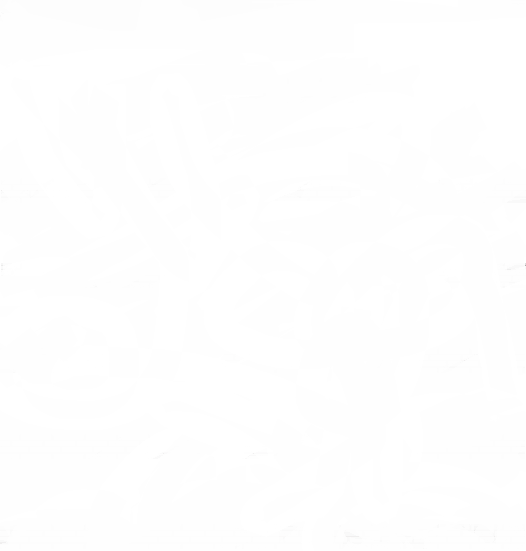
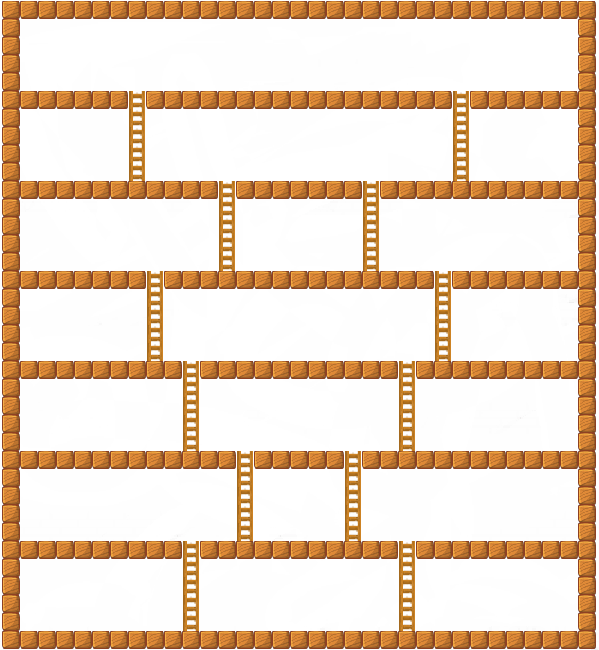
Kretanje igraca

diff --git a/DonkeyKong/Main.py b/DonkeyKong/Main.py
@@ -61,38 +61,74 @@ class Princess(QLabel):
 
 
 class Mover(QLabel):
-    def __init__(self, parent=None):
+    def __init__(self, map, parent=None):
         super().__init__(parent)
-        self.setGeometry(0, 608, 70, 70)
+        self.setGeometry(-8, 621, 50, 70)
         pix = QPixmap('ItsAMeRight.png')
-        pixx = pix.scaled(QSize(70, 70))
+        pixx = pix.scaled(QSize(50, 70))
         self.setPixmap(pixx)
+        self.map = map
+        self.PlayerX = 0
+        self.PlayerY = 0
 
     def getPosition(self):
-        self.playerX = self.mover.x()
-        self.playerY = self.mover.y()
+        self.playerDrawn = 0
+        for x in range(len(self.map)):
+            for y in range(len(self.map[x])):
+                if self.map[x][y] == 3 or self.map[x][y] == 5:
+                    if self.playerDrawn == 0:
+                        self.playerDrawn = 1
+                    else:
+                        self.PlayerX = x
+                        self.PlayerY = y
+                        return
+
+    def printMap(self):
+        for x in range(len(self.map)):
+            row = []
+            for y in range(len(self.map[x])):
+                row.append(self.map[x][y])
+            print(row)
 
     def keyPressEvent(self, event):
         self.getPosition()
         if event.key() == Qt.Key_Up:
-            if MainWindow.map[self.x()][self.y()] == 5: #Provera da li se nalazi na merdevinama
-                self.move(self.x(), self.y() - 15)
+            if self.map[self.PlayerX][self.PlayerY] == 5:
+                self.move(self.x(), self.y() - 19)
+                self.map[self.PlayerX][self.PlayerY] = self.map[self.PlayerX][self.PlayerY] - 3
+                self.map[self.PlayerX - 2][self.PlayerY] = self.map[self.PlayerX - 2][self.PlayerY] + 3
+                self.printMap()
         elif event.key() == Qt.Key_Down:
-            if self.y() + 15 <= 610:
-                if MainWindow.map[self.x()][self.y()] == 5: #Provera da li se nalazi na merdevinama
-                    self.move(self.x(), self.y() + 15)
+            if self.y() + 19 <= 630:
+                if self.map[self.PlayerX+1][self.PlayerY] == 5 or self.map[self.PlayerX + 1][self.PlayerY] == 2:
+                    self.move(self.x(), self.y() + 19)
+                    self.map[self.PlayerX + 1][self.PlayerY] = self.map[self.PlayerX + 1][self.PlayerY] + 3
+                    self.map[self.PlayerX - 1][self.PlayerY] = self.map[self.PlayerX - 1][self.PlayerY] - 3
+                    self.printMap()
         elif event.key() == Qt.Key_Left:
-            if self.x() - 5 >= -25:
-                self.move(self.x() - 5, self.y())
-                pix = QPixmap('ItsAMeLeft.png')
-                pixx = pix.scaled(QSize(70, 70))
-                self.setPixmap(pixx)
+            if self.x() - 18 >= -8:
+                if not (self.map[self.PlayerX+1][self.PlayerY] == 2 and self.map[self.PlayerX + 1][self.PlayerY+1] == 0):
+                    self.move(self.x() - 18, self.y())
+                    pix = QPixmap('ItsAMeLeft.png')
+                    pixx = pix.scaled(QSize(50, 70))
+                    self.setPixmap(pixx)
+                    self.map[self.PlayerX][self.PlayerY] = self.map[self.PlayerX][self.PlayerY] - 3
+                    self.map[self.PlayerX-1][self.PlayerY] = self.map[self.PlayerX-1][self.PlayerY] - 3
+                    self.map[self.PlayerX][self.PlayerY-1] = self.map[self.PlayerX][self.PlayerY-1] + 3
+                    self.map[self.PlayerX-1][self.PlayerY-1] = self.map[self.PlayerX-1][self.PlayerY-1] + 3
+                    self.printMap()
         elif event.key() == Qt.Key_Right:
-            if self.x() + 5 <= 532:
-                self.move(self.x() + 5, self.y())
-                pix = QPixmap('ItsAMeRight.png')
-                pixx = pix.scaled(QSize(70, 70))
-                self.setPixmap(pixx)
+            if self.x() + 18 <= 532:
+                if not (self.map[self.PlayerX + 1][self.PlayerY] == 2 and self.map[self.PlayerX + 1][self.PlayerY + 1] == 0):
+                    self.move(self.x() + 18, self.y())
+                    pix = QPixmap('ItsAMeRight.png')
+                    pixx = pix.scaled(QSize(50, 70))
+                    self.setPixmap(pixx)
+                    self.map[self.PlayerX][self.PlayerY] = self.map[self.PlayerX][self.PlayerY] - 3
+                    self.map[self.PlayerX-1][self.PlayerY] = self.map[self.PlayerX-1][self.PlayerY] - 3
+                    self.map[self.PlayerX][self.PlayerY+1] = self.map[self.PlayerX][self.PlayerY+1] + 3
+                    self.map[self.PlayerX-1][self.PlayerY+1] = self.map[self.PlayerX-1][self.PlayerY+1] + 3
+                    self.printMap()
         else:
             QLabel.keyPressEvent(self, event)
 
@@ -102,79 +138,55 @@ class MainWindow(QWidget):
         super().__init__()
         self.initUI()
 
-    def makeMap(self):
-        for i in range(0, self._height // 15 + 1):
-            row = []
-            for j in range(0, self._width // 15):
-                row.append(0)
-            self.map.append(row)
-
-    def makeWalls(self): # Wall = 1
-        for i in range(0, (self._height // 15) - 4):
-            self.map[i][0] = self.map[i][self._width // 15 - 1] = 1
-        for i in range(0, (self._height // (15 * 5))):
-            for j in range(0, self._width // 15):
-                self.map[i * 5][j] = 1
-
-    def makeLadders(self): # Ladder = 2
-        for i in range(1, (self._height // (15 * 5) - 1)):
-            ladderPos = math.floor(random.random() * (self._width / 30))
-            ladderPos = int(10 + ladderPos)
-            for k in range(0, 5):
-                self.map[i * 5 + k][ladderPos] = self.map[i * 5 + k][32 - ladderPos] = 2
-
-    def makePlayer(self): # Player = 3
-        self.map[34][1] = self.map[33][1] = 3
-
-    def drawImages(self):
-        self.playerDrawn = 0
-        for x in range(len(self.map)):
-            for y in range(len(self.map[x])):
-                if self.map[x][y] == 1:
-                    wallLabel = QLabel()
-                    pix = QPixmap('wood_block.png')
-                    pixx = pix.scaled(QSize(self.image_size, self.image_size))
-                    wallLabel.setPixmap(pixx)
-                    wallLabel.move(y * 15 + 15 / 2, x * 15 + 15 / 2)
-                    self.hbox.addWidget(wallLabel, x * 15 + 15 / 2, y * 15 + 15 / 2)
-
-                if self.map[x][y] == 2:
-                    ladderLabel = QLabel()
-                    pix = QPixmap('ladder.png')
-                    pixx = pix.scaled(QSize(self.image_size, self.image_size))
-                    ladderLabel.setPixmap(pixx)
-                    ladderLabel.move(y * 15 + 15 / 2, x * 15 + 15 / 2)
-                    self.hbox.addWidget(ladderLabel, x * 15 + 15 / 2, y * 15 + 15 / 2)
-
-                if self.map[x][y] == 3:
-                    if self.playerDrawn == 0:
-                        self.playerDrawn = 1
-                    else:
-                        playerLabel = QLabel()
-                        pix = QPixmap('ItsAMeRight.png')
-                        pixx = pix.scaled(QSize(self.image_size, self.image_size))
-                        playerLabel.setPixmap(pixx)
-                        playerLabel.move(y * 15 + 15 / 2, x * 15 + 15 / 2)
-                        self.hbox.addWidget(playerLabel, x * 15 + 15 / 2, y * 15 + 15 / 2)
-
-    # def clearScreen(self):
-    # Clear previous screen
-
-    def initializeBoard(self):
-        # self.clearScreen()
-        self.makeMap()
-        self.makeWalls()
-        self.makeLadders()
-        self.makePlayer()
-        self.drawImages()
-
     def initUI(self):
         self.startButton = QPushButton("New Game", self)
         self.startButton.resize(100, 32)
         self.startButton.move(100, 500)
         self.startButton.clicked.connect(self.on_start)
 
-        self.map = []
+        self.map = \
+            [[1, 1, 1, 1, 1, 1, 1, 1, 1, 1, 1, 1, 1, 1, 1, 1, 1, 1, 1, 1, 1, 1, 1, 1, 1, 1, 1, 1, 1, 1, 1, 1, 1],
+             [1, 0, 0, 0, 0, 0, 0, 0, 0, 0, 0, 0, 0, 0, 0, 0, 0, 0, 0, 0, 0, 0, 0, 0, 0, 0, 0, 0, 0, 0, 0, 0, 1],
+             [1, 0, 0, 0, 0, 0, 0, 0, 0, 0, 0, 0, 0, 0, 0, 4, 4, 4, 0, 0, 0, 0, 0, 0, 0, 0, 0, 0, 0, 0, 0, 0, 1],
+             [1, 0, 0, 0, 0, 0, 0, 0, 0, 0, 0, 0, 0, 0, 0, 4, 4, 4, 0, 0, 0, 0, 0, 0, 0, 0, 0, 0, 0, 0, 0, 0, 1],
+             [1, 0, 0, 0, 0, 0, 0, 0, 0, 0, 0, 0, 0, 0, 0, 4, 4, 4, 0, 0, 0, 0, 0, 0, 0, 0, 0, 0, 0, 0, 0, 0, 1],
+             [1, 1, 1, 1, 1, 1, 1, 2, 1, 1, 1, 1, 1, 1, 1, 1, 1, 1, 1, 1, 1, 1, 1, 1, 1, 2, 1, 1, 1, 1, 1, 1, 1],
+             [1, 0, 0, 0, 0, 0, 0, 2, 0, 0, 0, 0, 0, 0, 0, 0, 0, 0, 0, 0, 0, 0, 0, 0, 0, 2, 0, 0, 0, 0, 0, 0, 1],
+             [1, 0, 0, 0, 0, 0, 0, 2, 0, 0, 0, 0, 0, 0, 0, 0, 0, 0, 0, 0, 0, 0, 0, 0, 0, 2, 0, 0, 0, 0, 0, 0, 1],
+             [1, 0, 0, 0, 0, 0, 0, 2, 0, 0, 0, 0, 0, 0, 0, 0, 0, 0, 0, 0, 0, 0, 0, 0, 0, 2, 0, 0, 0, 0, 0, 0, 1],
+             [1, 0, 0, 0, 0, 0, 0, 2, 0, 0, 0, 0, 0, 0, 0, 0, 0, 0, 0, 0, 0, 0, 0, 0, 0, 2, 0, 0, 0, 0, 0, 0, 1],
+             [1, 1, 1, 1, 1, 1, 1, 1, 1, 1, 1, 1, 2, 1, 1, 1, 1, 1, 1, 1, 2, 1, 1, 1, 1, 1, 1, 1, 1, 1, 1, 1, 1],
+             [1, 0, 0, 0, 0, 0, 0, 0, 0, 0, 0, 0, 2, 0, 0, 0, 0, 0, 0, 0, 2, 0, 0, 0, 0, 0, 0, 0, 0, 0, 0, 0, 1],
+             [1, 0, 0, 0, 0, 0, 0, 0, 0, 0, 0, 0, 2, 0, 0, 0, 0, 0, 0, 0, 2, 0, 0, 0, 0, 0, 0, 0, 0, 0, 0, 0, 1],
+             [1, 0, 0, 0, 0, 0, 0, 0, 0, 0, 0, 0, 2, 0, 0, 0, 0, 0, 0, 0, 2, 0, 0, 0, 0, 0, 0, 0, 0, 0, 0, 0, 1],
+             [1, 0, 0, 0, 0, 0, 0, 0, 0, 0, 0, 0, 2, 0, 0, 0, 0, 0, 0, 0, 2, 0, 0, 0, 0, 0, 0, 0, 0, 0, 0, 0, 1],
+             [1, 1, 1, 1, 1, 1, 1, 1, 2, 1, 1, 1, 1, 1, 1, 1, 1, 1, 1, 1, 1, 1, 1, 1, 2, 1, 1, 1, 1, 1, 1, 1, 1],
+             [1, 0, 0, 0, 0, 0, 0, 0, 2, 0, 0, 0, 0, 0, 0, 0, 0, 0, 0, 0, 0, 0, 0, 0, 2, 0, 0, 0, 0, 0, 0, 0, 1],
+             [1, 0, 0, 0, 0, 0, 0, 0, 2, 0, 0, 0, 0, 0, 0, 0, 0, 0, 0, 0, 0, 0, 0, 0, 2, 0, 0, 0, 0, 0, 0, 0, 1],
+             [1, 0, 0, 0, 0, 0, 0, 0, 2, 0, 0, 0, 0, 0, 0, 0, 0, 0, 0, 0, 0, 0, 0, 0, 2, 0, 0, 0, 0, 0, 0, 0, 1],
+             [1, 0, 0, 0, 0, 0, 0, 0, 2, 0, 0, 0, 0, 0, 0, 0, 0, 0, 0, 0, 0, 0, 0, 0, 2, 0, 0, 0, 0, 0, 0, 0, 1],
+             [1, 1, 1, 1, 1, 1, 1, 1, 1, 1, 2, 1, 1, 1, 1, 1, 1, 1, 1, 1, 1, 1, 2, 1, 1, 1, 1, 1, 1, 1, 1, 1, 1],
+             [1, 0, 0, 0, 0, 0, 0, 0, 0, 0, 2, 0, 0, 0, 0, 0, 0, 0, 0, 0, 0, 0, 2, 0, 0, 0, 0, 0, 0, 0, 0, 0, 1],
+             [1, 0, 0, 0, 0, 0, 0, 0, 0, 0, 2, 0, 0, 0, 0, 0, 0, 0, 0, 0, 0, 0, 2, 0, 0, 0, 0, 0, 0, 0, 0, 0, 1],
+             [1, 0, 0, 0, 0, 0, 0, 0, 0, 0, 2, 0, 0, 0, 0, 0, 0, 0, 0, 0, 0, 0, 2, 0, 0, 0, 0, 0, 0, 0, 0, 0, 1],
+             [1, 0, 0, 0, 0, 0, 0, 0, 0, 0, 2, 0, 0, 0, 0, 0, 0, 0, 0, 0, 0, 0, 2, 0, 0, 0, 0, 0, 0, 0, 0, 0, 1],
+             [1, 1, 1, 1, 1, 1, 1, 1, 1, 1, 1, 1, 1, 2, 1, 1, 1, 1, 1, 2, 1, 1, 1, 1, 1, 1, 1, 1, 1, 1, 1, 1, 1],
+             [1, 0, 0, 0, 0, 0, 0, 0, 0, 0, 0, 0, 0, 2, 0, 0, 0, 0, 0, 2, 0, 0, 0, 0, 0, 0, 0, 0, 0, 0, 0, 0, 1],
+             [1, 0, 0, 0, 0, 0, 0, 0, 0, 0, 0, 0, 0, 2, 0, 0, 0, 0, 0, 2, 0, 0, 0, 0, 0, 0, 0, 0, 0, 0, 0, 0, 1],
+             [1, 0, 0, 0, 0, 0, 0, 0, 0, 0, 0, 0, 0, 2, 0, 0, 0, 0, 0, 2, 0, 0, 0, 0, 0, 0, 0, 0, 0, 0, 0, 0, 1],
+             [1, 0, 0, 0, 0, 0, 0, 0, 0, 0, 0, 0, 0, 2, 0, 0, 0, 0, 0, 2, 0, 0, 0, 0, 0, 0, 0, 0, 0, 0, 0, 0, 1],
+             [1, 1, 1, 1, 1, 1, 1, 1, 1, 1, 2, 1, 1, 1, 1, 1, 1, 1, 1, 1, 1, 1, 2, 1, 1, 1, 1, 1, 1, 1, 1, 1, 1],
+             [1, 0, 0, 0, 0, 0, 0, 0, 0, 0, 2, 0, 0, 0, 0, 0, 0, 0, 0, 0, 0, 0, 2, 0, 0, 0, 0, 0, 0, 0, 0, 0, 1],
+             [1, 0, 0, 0, 0, 0, 0, 0, 0, 0, 2, 0, 0, 0, 0, 0, 0, 0, 0, 0, 0, 0, 2, 0, 0, 0, 0, 0, 0, 0, 0, 0, 1],
+             [1, 3, 0, 0, 0, 0, 0, 0, 0, 0, 2, 0, 0, 0, 0, 0, 0, 0, 0, 0, 0, 0, 2, 0, 0, 0, 0, 0, 0, 0, 0, 0, 1],
+             [1, 3, 0, 0, 0, 0, 0, 0, 0, 0, 2, 0, 0, 0, 0, 0, 0, 0, 0, 0, 0, 0, 2, 0, 0, 0, 0, 0, 0, 0, 0, 0, 1],
+             [1, 1, 1, 1, 1, 1, 1, 1, 1, 1, 1, 1, 1, 1, 1, 1, 1, 1, 1, 1, 1, 1, 1, 1, 1, 1, 1, 1, 1, 1, 1, 1, 1],
+             [0, 0, 0, 0, 0, 0, 0, 0, 0, 0, 0, 0, 0, 0, 0, 0, 0, 0, 0, 0, 0, 0, 0, 0, 0, 0, 0, 0, 0, 0, 0, 0, 0],
+             [0, 0, 0, 0, 0, 0, 0, 0, 0, 0, 0, 0, 0, 0, 0, 0, 0, 0, 0, 0, 0, 0, 0, 0, 0, 0, 0, 0, 0, 0, 0, 0, 0],
+             [0, 0, 0, 0, 0, 0, 0, 0, 0, 0, 0, 0, 0, 0, 0, 0, 0, 0, 0, 0, 0, 0, 0, 0, 0, 0, 0, 0, 0, 0, 0, 0, 0],
+             [0, 0, 0, 0, 0, 0, 0, 0, 0, 0, 0, 0, 0, 0, 0, 0, 0, 0, 0, 0, 0, 0, 0, 0, 0, 0, 0, 0, 0, 0, 0, 0, 0],
+             [0, 0, 0, 0, 0, 0, 0, 0, 0, 0, 0, 0, 0, 0, 0, 0, 0, 0, 0, 0, 0, 0, 0, 0, 0, 0, 0, 0, 0, 0, 0, 0, 0]]
+
         self._height = 600
         self._width = 500
         self.image_size = 18
@@ -205,16 +217,15 @@ class MainWindow(QWidget):
         self.setPalette(palette)
         self.startButton.hide()
 
-        self.initializeBoard()
         self.PrincessWidget = QWidget()
         self.MarioWidget = QWidget()
 
-        #self.PrincessWidget.setSizePolicy(QSizePolicy.Expanding, QSizePolicy.Expanding)
-        #self.hbox.addWidget(self.PrincessWidget, 1, 1)
-        #self.MarioWidget.setSizePolicy(QSizePolicy.Expanding,QSizePolicy.Expanding)
-        #self.hbox.addWidget(self.MarioWidget, 34 * 15 + 15 / 2, 1 * 15 + 15 / 2)
+        # self.PrincessWidget.setSizePolicy(QSizePolicy.Expanding, QSizePolicy.Expanding)
+        self.hbox.addWidget(self.PrincessWidget, 1, 1)
+        # self.MarioWidget.setSizePolicy(QSizePolicy.Expanding,QSizePolicy.Expanding)
+        self.hbox.addWidget(self.MarioWidget, 1, 1)
 
-        self.mover = Mover(self.MarioWidget)
+        self.mover = Mover(self.map, self.MarioWidget)
         self.princess = Princess(self.PrincessWidget)
         self.mover.setFocus()
 

diff --git a/DonkeyKong/MapMaker.py b/DonkeyKong/MapMaker.py
@@ -1,0 +1,71 @@
+def makeMap(self):
+    for i in range(0, self._height // 15 + 1):
+        row = []
+        for j in range(0, self._width // 15):
+            row.append(0)
+        self.map.append(row)
+
+
+def makeWalls(self):  # Wall = 1
+    for i in range(0, (self._height // 15) - 4):
+        self.map[i][0] = self.map[i][self._width // 15 - 1] = 1
+    for i in range(0, (self._height // (15 * 5))):
+        for j in range(0, self._width // 15):
+            self.map[i * 5][j] = 1
+
+
+def makeLadders(self):  # Ladder = 2
+    for i in range(1, (self._height // (15 * 5) - 1)):
+        ladderPos = math.floor(random.random() * (self._width / 30))
+        ladderPos = int(10 + ladderPos)
+        for k in range(0, 5):
+            self.map[i * 5 + k][ladderPos] = self.map[i * 5 + k][32 - ladderPos] = 2
+
+
+def makePlayer(self):  # Player = 3
+    self.map[34][1] = self.map[33][1] = 3
+
+
+def drawImages(self):
+    self.playerDrawn = 0
+    for x in range(len(self.map)):
+        for y in range(len(self.map[x])):
+            if self.map[x][y] == 1:
+                wallLabel = QLabel()
+                pix = QPixmap('wood_block.png')
+                pixx = pix.scaled(QSize(self.image_size, self.image_size))
+                wallLabel.setPixmap(pixx)
+                wallLabel.move(y * 15 + 15 / 2, x * 15 + 15 / 2)
+                self.hbox.addWidget(wallLabel, x * 15 + 15 / 2, y * 15 + 15 / 2)
+
+            if self.map[x][y] == 2:
+                ladderLabel = QLabel()
+                pix = QPixmap('ladder.png')
+                pixx = pix.scaled(QSize(self.image_size, self.image_size))
+                ladderLabel.setPixmap(pixx)
+                ladderLabel.move(y * 15 + 15 / 2, x * 15 + 15 / 2)
+                self.hbox.addWidget(ladderLabel, x * 15 + 15 / 2, y * 15 + 15 / 2)
+
+            if self.map[x][y] == 3:
+                if self.playerDrawn == 0:
+                    self.playerDrawn = 1
+                else:
+                    playerLabel = QLabel()
+                    pix = QPixmap('ItsAMeRight.png')
+                    pixx = pix.scaled(QSize(self.image_size, self.image_size))
+                    playerLabel.setPixmap(pixx)
+                    playerLabel.move(y * 15 + 15 / 2, x * 15 + 15 / 2)
+                    self.hbox.addWidget(playerLabel, x * 15 + 15 / 2, y * 15 + 15 / 2)
+
+
+# def clearScreen(self):
+# Clear previous screen
+
+def initializeBoard(self):
+    # self.clearScreen()
+    self.makeMap()
+    self.makeWalls()
+    self.makeLadders()
+    self.makePlayer()
+    print(self.map)
+    self.drawImages()
